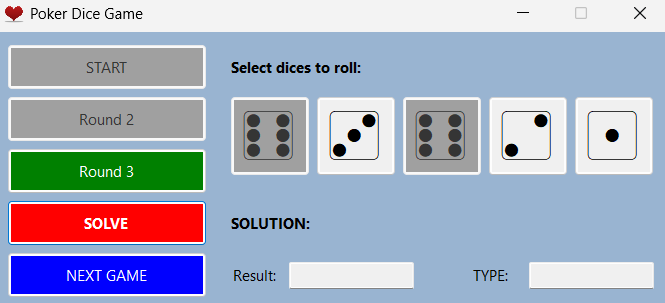
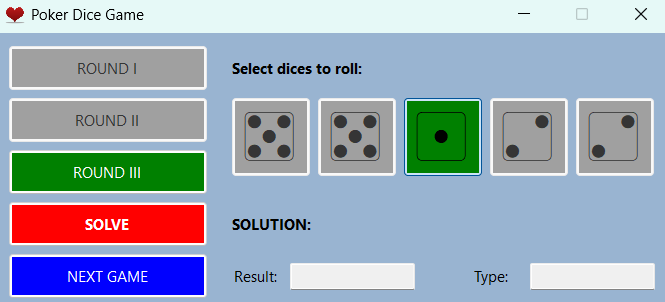
.

diff --git a/PokerDice/PokerDice.UI/MainForm.Designer.cs b/PokerDice/PokerDice.UI/MainForm.Designer.cs
@@ -52,7 +52,7 @@
             startButton.Name = "startButton";
             startButton.Size = new Size(200, 46);
             startButton.TabIndex = 0;
-            startButton.Text = "START";
+            startButton.Text = "ROUND I";
             startButton.UseVisualStyleBackColor = false;
             startButton.Click += button1_Click;
             // 
@@ -86,9 +86,9 @@
             label3.AutoSize = true;
             label3.Location = new Point(474, 233);
             label3.Name = "label3";
-            label3.Size = new Size(44, 20);
+            label3.Size = new Size(43, 20);
             label3.TabIndex = 6;
-            label3.Text = "TYPE:";
+            label3.Text = "Type:";
             // 
             // dicesPanel
             // 
@@ -105,7 +105,7 @@
             round2Button.Name = "round2Button";
             round2Button.Size = new Size(200, 46);
             round2Button.TabIndex = 8;
-            round2Button.Text = "Round 2";
+            round2Button.Text = "ROUND II";
             round2Button.UseVisualStyleBackColor = false;
             round2Button.Click += round2Button_Click;
             // 
@@ -117,7 +117,7 @@
             round3Button.Name = "round3Button";
             round3Button.Size = new Size(200, 46);
             round3Button.TabIndex = 9;
-            round3Button.Text = "Round 3";
+            round3Button.Text = "ROUND III";
             round3Button.UseVisualStyleBackColor = false;
             round3Button.Click += round3Button_Click;
             // 
